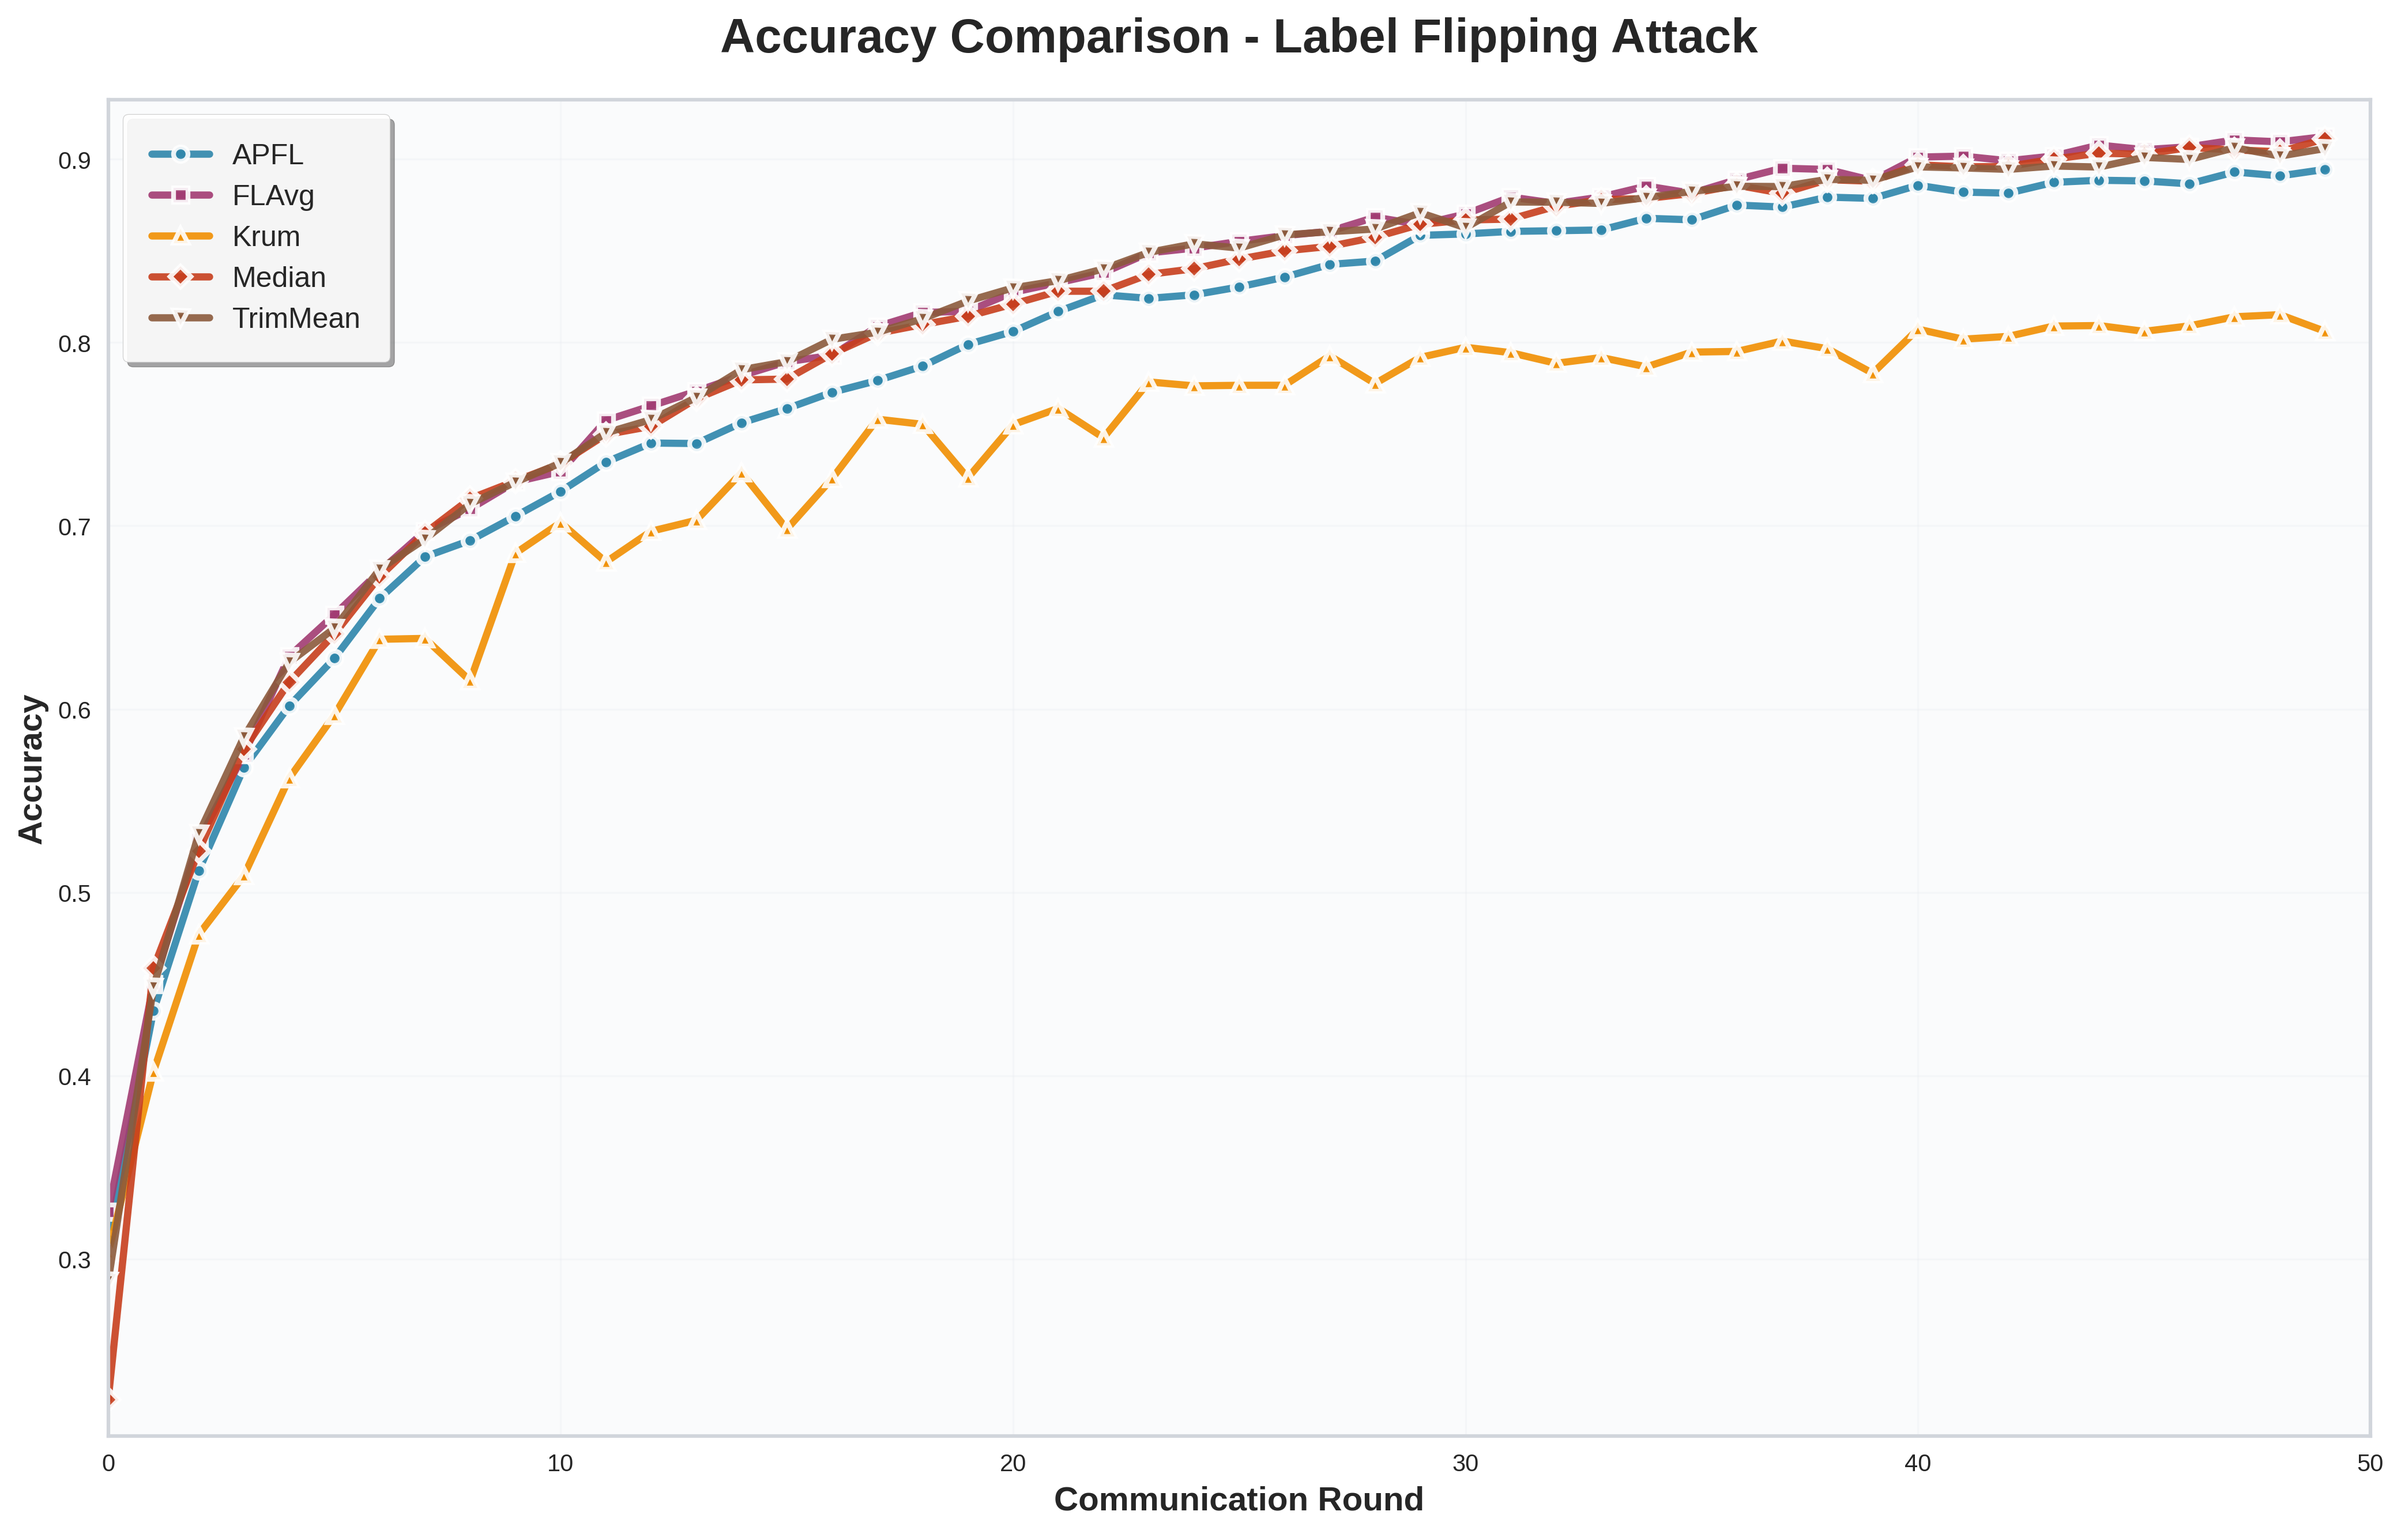
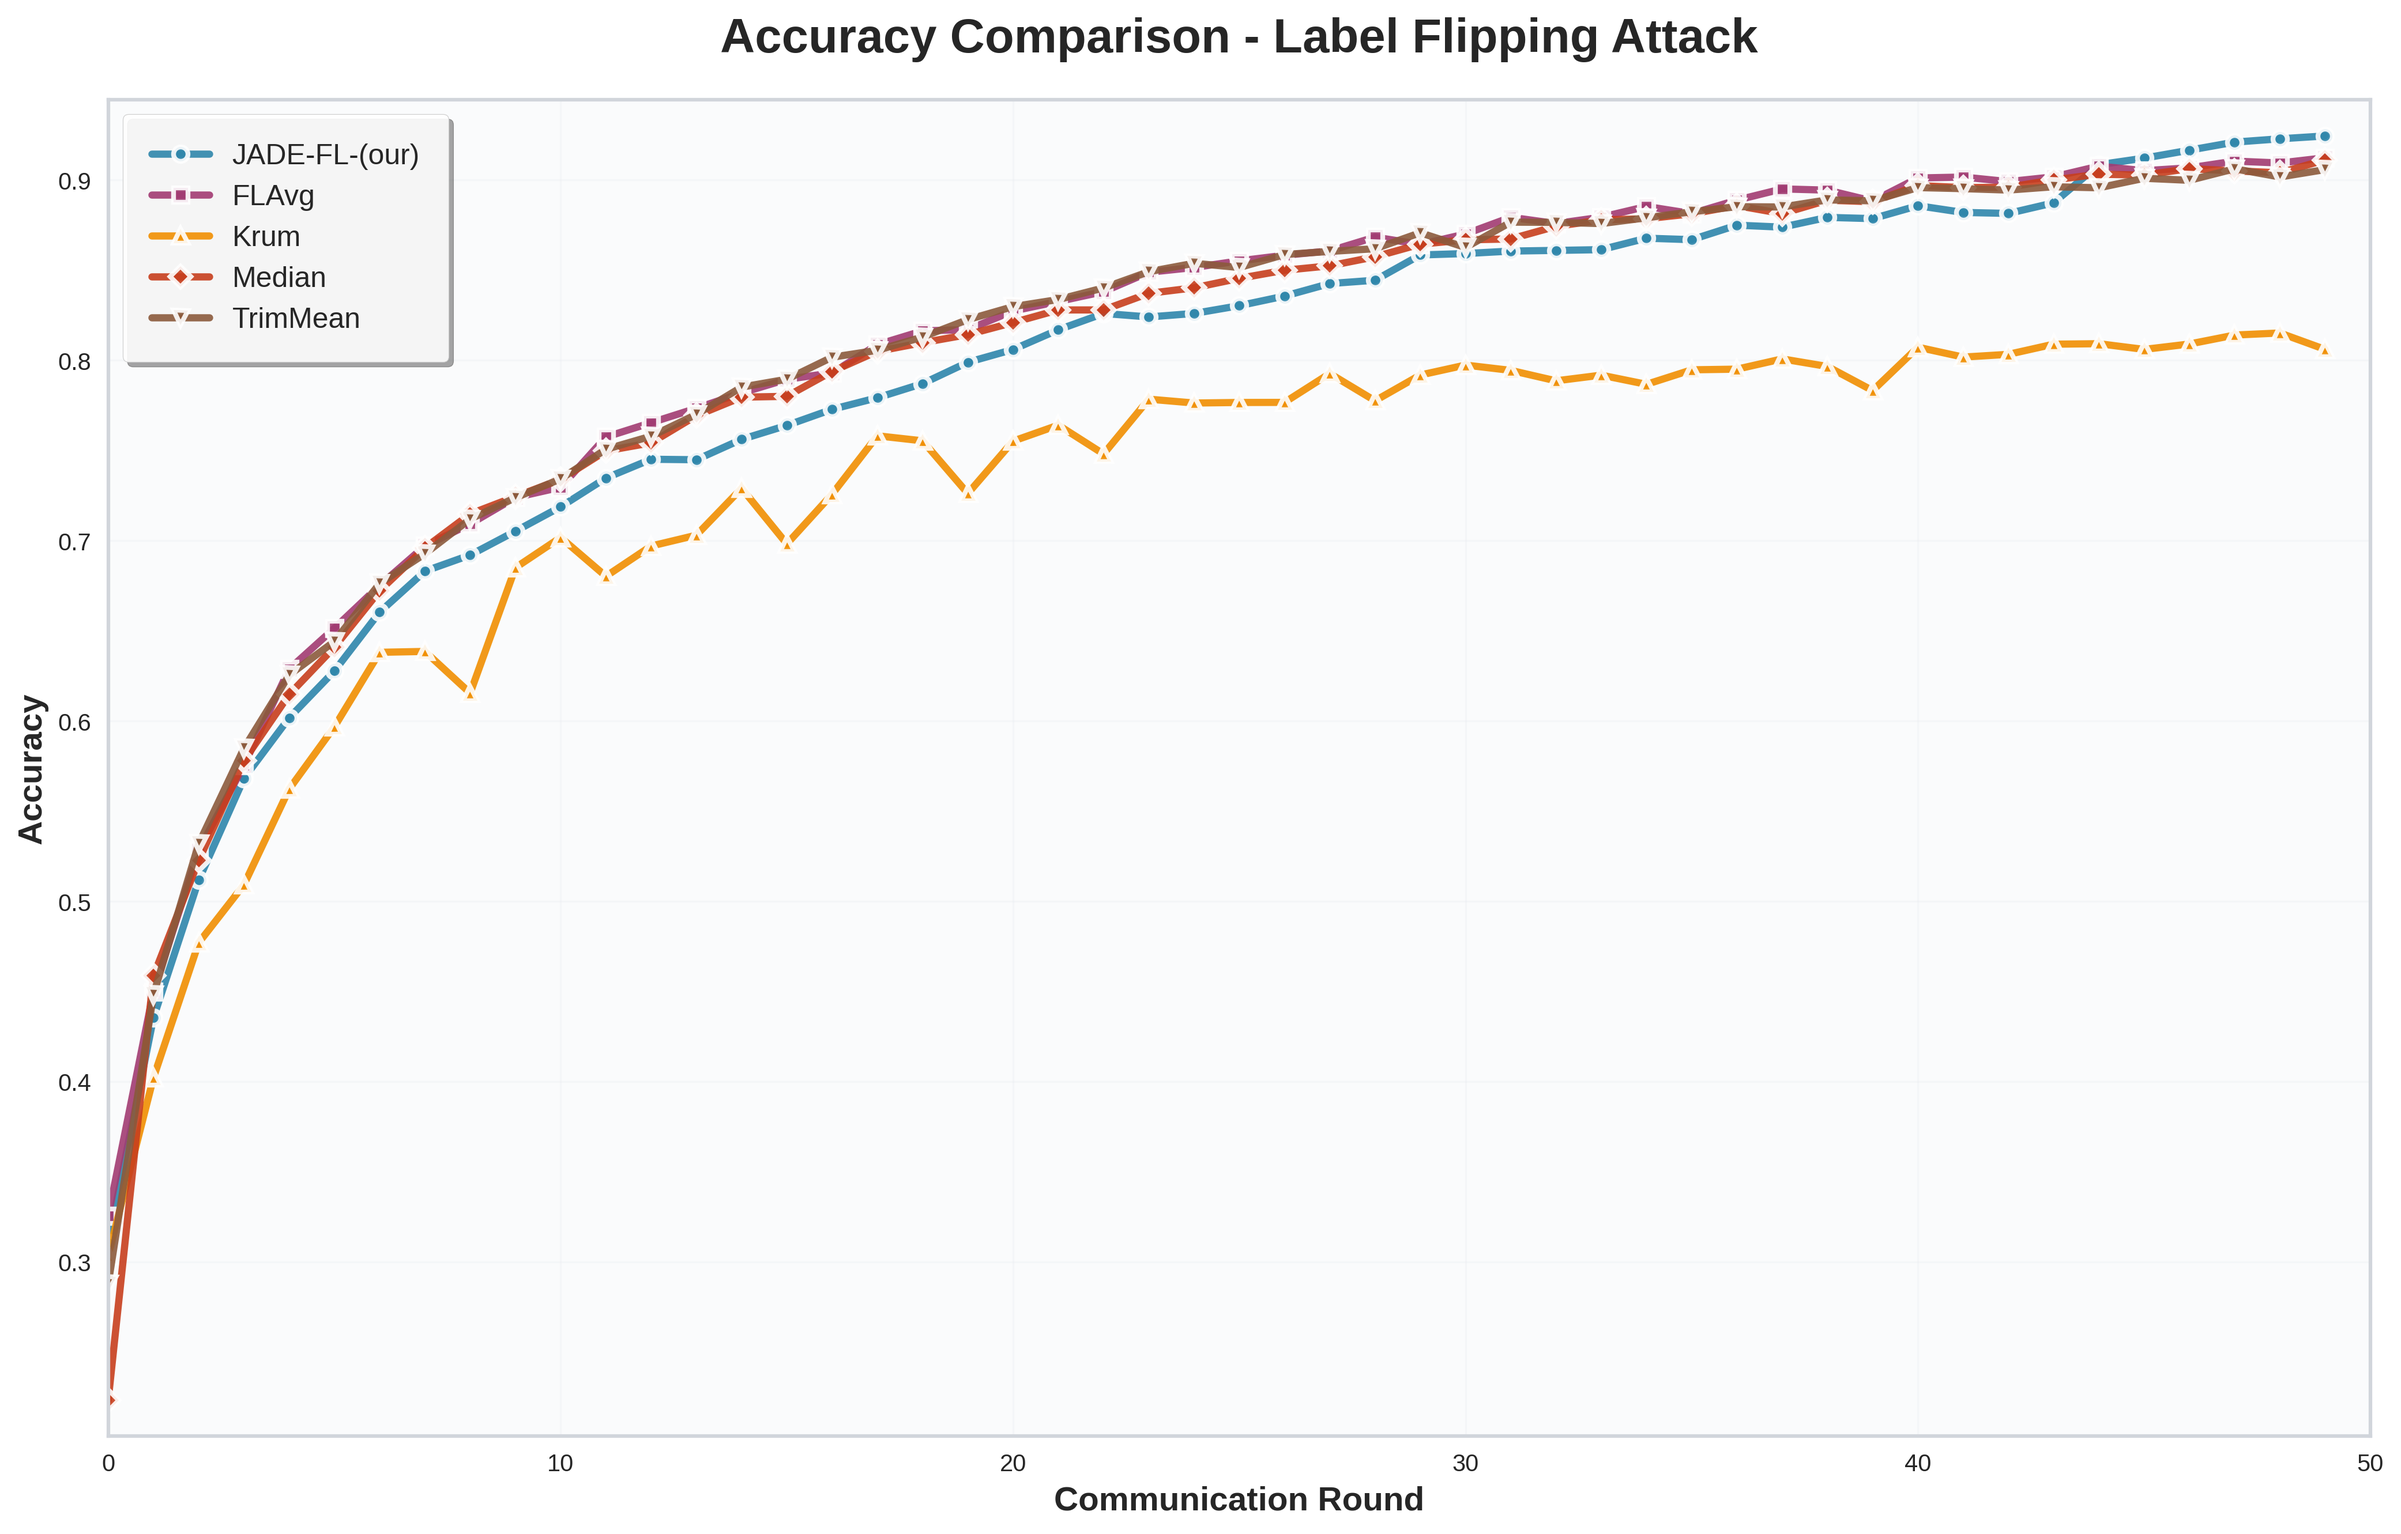
results

diff --git a/compare_experiments.py b/compare_experiments.py
@@ -7,7 +7,7 @@ from matplotlib.patches import Rectangle
 import matplotlib.patches as mpatches
 
 LOG_DIR = "./log"
-ALGORITHMS = ["APFL", "FLAvg", "Krum", "Median", "TrimMean"]
+ALGORITHMS = ["JADE-FL-(our)", "FLAvg", "Krum", "Median", "TrimMean"]
 ATTACKS = ["NA", "LFA", "MPA"]
 DATASET = "plantvillage"
 POISONING_RATIOS = {"NA": "0", "LFA": "0.3", "MPA": "0.3"}
